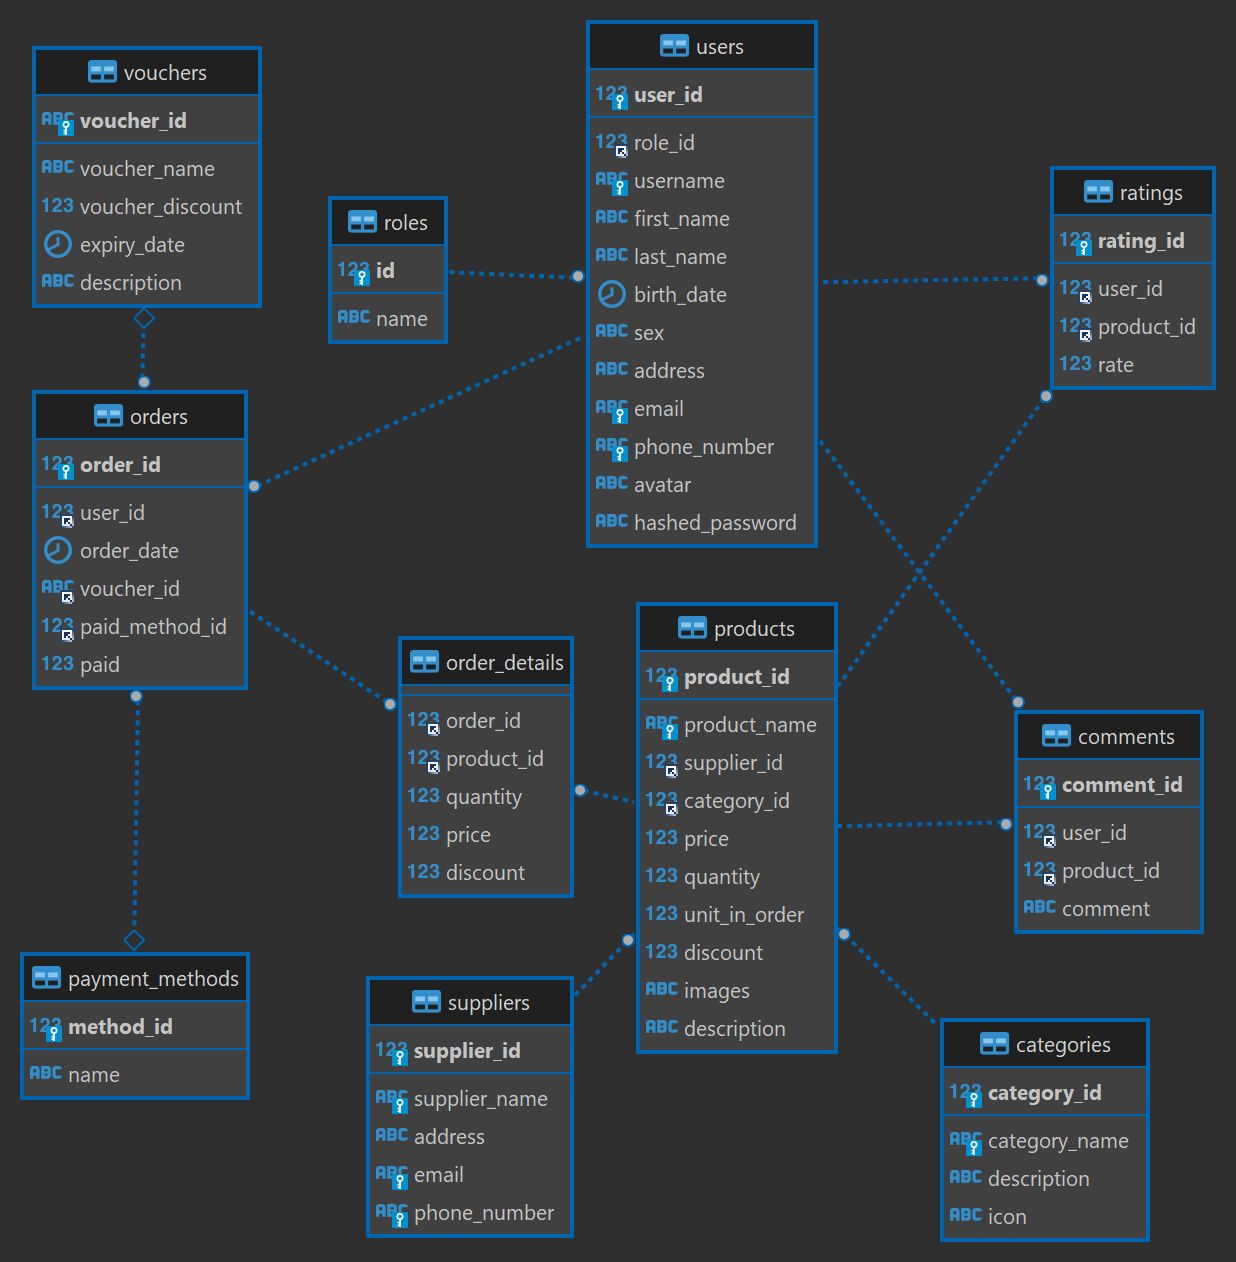
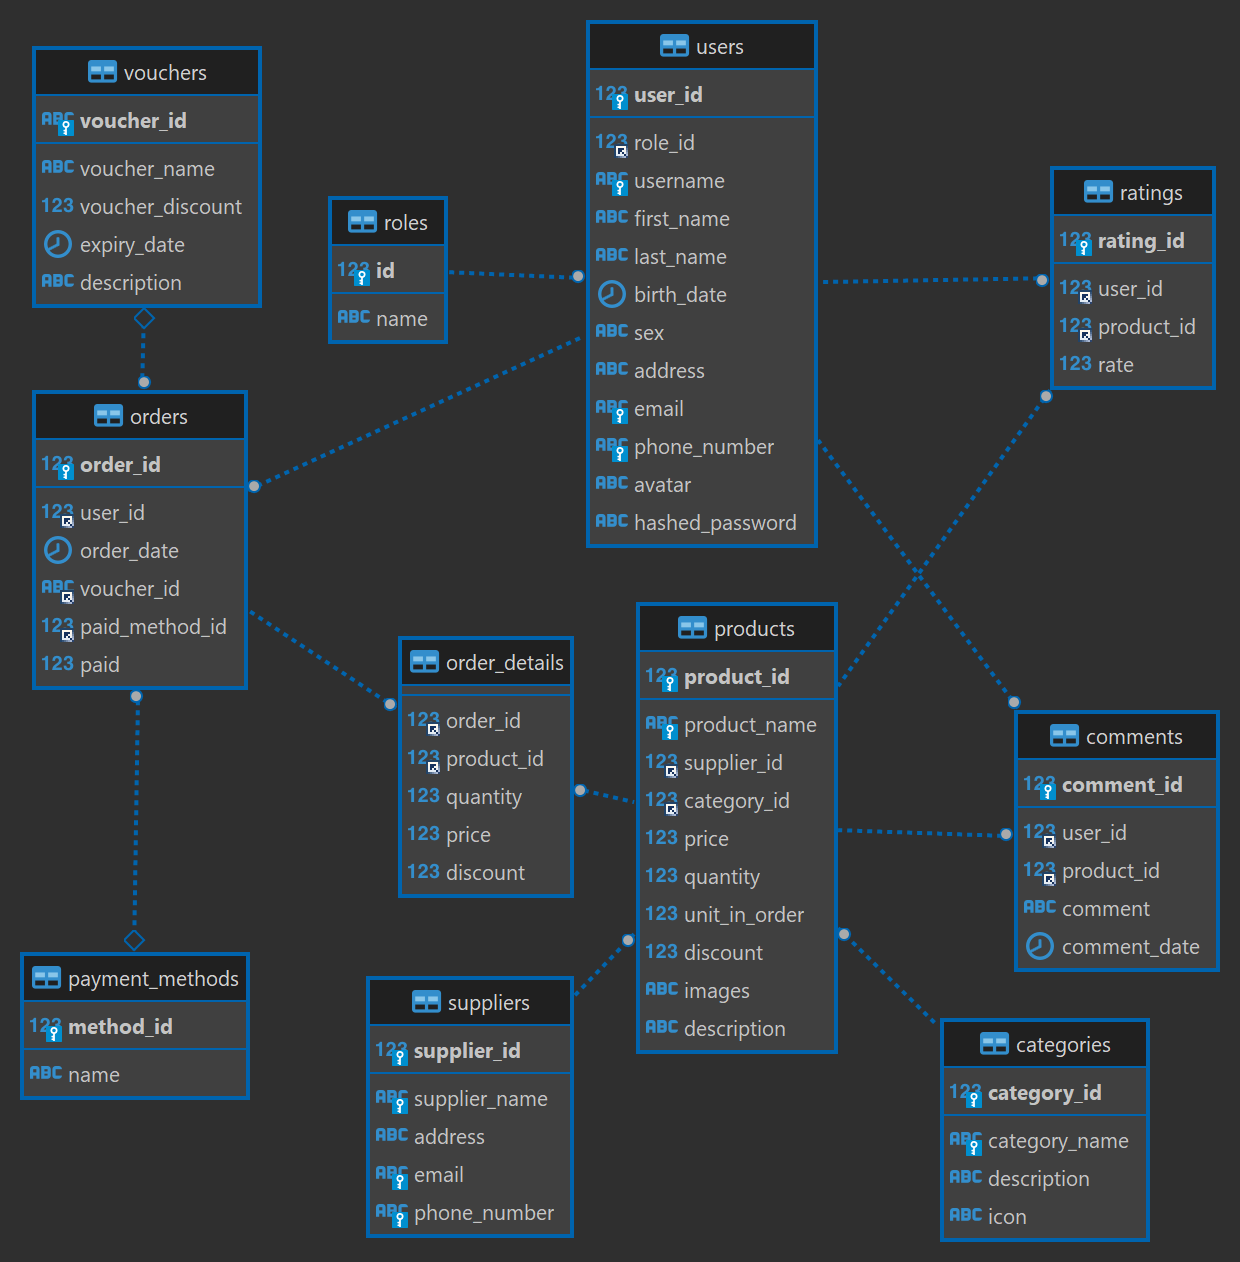
add comment_date, comment route api, clean code

diff --git a/server/cache/comment.js b/server/cache/comment.js
@@ -1,7 +1,6 @@
 const { Comment } = require('../models')
 const { pool } = require('./database')
 
-const comments = []
 
 // async function initializeComment() {
 //     console.log('\x1b[1m%s\x1b[0m', 'Initializing comments data...')
@@ -24,7 +23,32 @@ const comments = []
 //     }
 // }
 
+async function queryComments(productID, startIndex, sortMode) {
+    const comments = []
+    try {
+        const queryString = [
+            'SELECT comment_id, first_name, last_name, product_id, comment, comment_date FROM comments',
+            'JOIN users ON users.user_id = comments.user_id',
+            'WHERE product_id = ? AND comment_id > ?',
+            `ORDER BY comment_id ${sortMode}`,
+            'LIMIT 10'
+        ].join(' ')
+        const [rows] = await pool.query(queryString, [productID, startIndex])
+        rows.forEach(row => {
+            const commentID = row['comment_id']
+            const firstName = row['first_name']
+            const lastName = row['last_name']
+            const productID = row['product_id']
+            const commentContent = row['comment']
+            const commentDate = row['comment_date']
+            const comment = new Comment(commentID, firstName, lastName, productID, commentContent, commentDate)
+            comments.push(comment)
+        })
+        return comments
+    } catch (error) {
+        throw new Error(error.message)
+    }
+}
 module.exports = {
-    // initializeComment,
-    comments
+    queryComments
 }

diff --git a/server/controllers/commentController.js b/server/controllers/commentController.js
@@ -1,0 +1,32 @@
+const { queryComments } = require('../cache')
+
+// [GET comments]
+async function getComments(req, res) {
+    const sortModes = ['DESC', 'ASC']
+    const data = {
+        productID: req.query.productID,
+        startIndex: req.query.startIndex,
+        sortMode: req.query.sortMode
+    }
+    if (!checkNumber(data.productID) || !checkNumber(data.startIndex)) return res.sendStatus(400)
+    if (!sortModes.includes(data.sortMode)) return res.sendStatus(400)
+    try {
+        const comments = await queryComments(data.productID, data.startIndex, data.sortMode)
+        return res.json(comments)
+    } catch (error) {
+        console.log('\x1b[31m%s\x1b[0m', error.message)
+        return res.status(500).json({ message: 'error' })
+    }
+}
+
+// Middleware,..
+function checkNumber(number) {
+    let i = 0
+    for (i; i < number.length; i++) {
+        if (isNaN(parseInt(number[i]))) return false
+    }
+    return true
+}
+module.exports = {
+    getComments
+}

diff --git a/server/cache/index.js b/server/cache/index.js
@@ -23,9 +23,9 @@ const {
     removeOrderDetail,
     addVoucher
 } = require('./order')
-const { suppliers, initializeSupplier, getaddress, getbrand } = require('./supplier')
+const { suppliers, initializeSupplier } = require('./supplier')
 const { vouchers, initializeVoucher } = require('./voucher')
-const { } = require('./comment')
+const { queryComments } = require('./comment')
 const { isRatingYet } = require('./rating')
 async function initializeData() {
     console.log('\x1b[1m%s\x1b[0m', 'Initializing data...')
@@ -66,8 +66,7 @@ module.exports = {
     paidOrder,
     removeOrderDetail,
     isRatingYet,
-    getaddress,
-    getbrand,
+    queryComments,
     pool,
     users,
     products,
@@ -75,7 +74,5 @@ module.exports = {
     suppliers,
     orders,
     vouchers,
-    // comments,
-    // ratings,
     refreshTokens,
 }

diff --git a/server/routes/index.js b/server/routes/index.js
@@ -4,7 +4,7 @@ const productRoute = require('./product')
 const orderRoute = require('./order')
 const categories = require('./category')
 const supplier = require('./supplier')
-
+const comment = require('./comment')
 
 function routes(app) {
     app.use('/api/user', userRoute)
@@ -13,6 +13,7 @@ function routes(app) {
     app.use('/api/order', orderRoute)
     app.use('/api/category', categories)
     app.use('/api/supplier', supplier)
+    app.use('/api/comment', comment)
 }
 
 module.exports = routes

diff --git a/server/models/comment.js b/server/models/comment.js
@@ -1,9 +1,11 @@
 class Comment {
-    constructor(commentID, userID, productID, comment) {
+    constructor(commentID, userFirstName, userLastName, productID, comment, commentDate) {
         this.commentID = commentID
-        this.userID = userID
+        this.userFirstName = userFirstName
+        this.userLastName = userLastName
         this.productID = productID
         this.comment = comment
+        this.commentDate = new Date(commentDate)
     }
 }
 

diff --git a/server/controllers/index.js b/server/controllers/index.js
@@ -2,10 +2,12 @@ const userController = require('./userController')
 const authController = require('./authController')
 const productController = require('./productController')
 const orderController = require("./orderController")
+const commentController = require('./commentController')
 
 module.exports = {
     userController,
     authController,
     productController,
-    orderController
+    orderController,
+    commentController
 }

diff --git a/server/cache/rating.js b/server/cache/rating.js
@@ -1,8 +1,6 @@
 const { Rating } = require('../models')
 const { pool } = require('./database')
 
-const ratings = []
-
 // async function initializeRating() {
 //     console.log('\x1b[1m%s\x1b[0m', 'Initializing ratings data...')
 //     try {
@@ -38,7 +36,5 @@ async function isRatingYet(userID, productID) {
     }
 }
 module.exports = {
-    // initializeRating,
     isRatingYet,
-    ratings
 }

diff --git a/server/routes/comment.js b/server/routes/comment.js
@@ -1,0 +1,7 @@
+const express = require('express')
+const router = express.Router()
+const { commentController } = require('../controllers')
+
+router.get('/', commentController.getComments)
+
+module.exports = router
